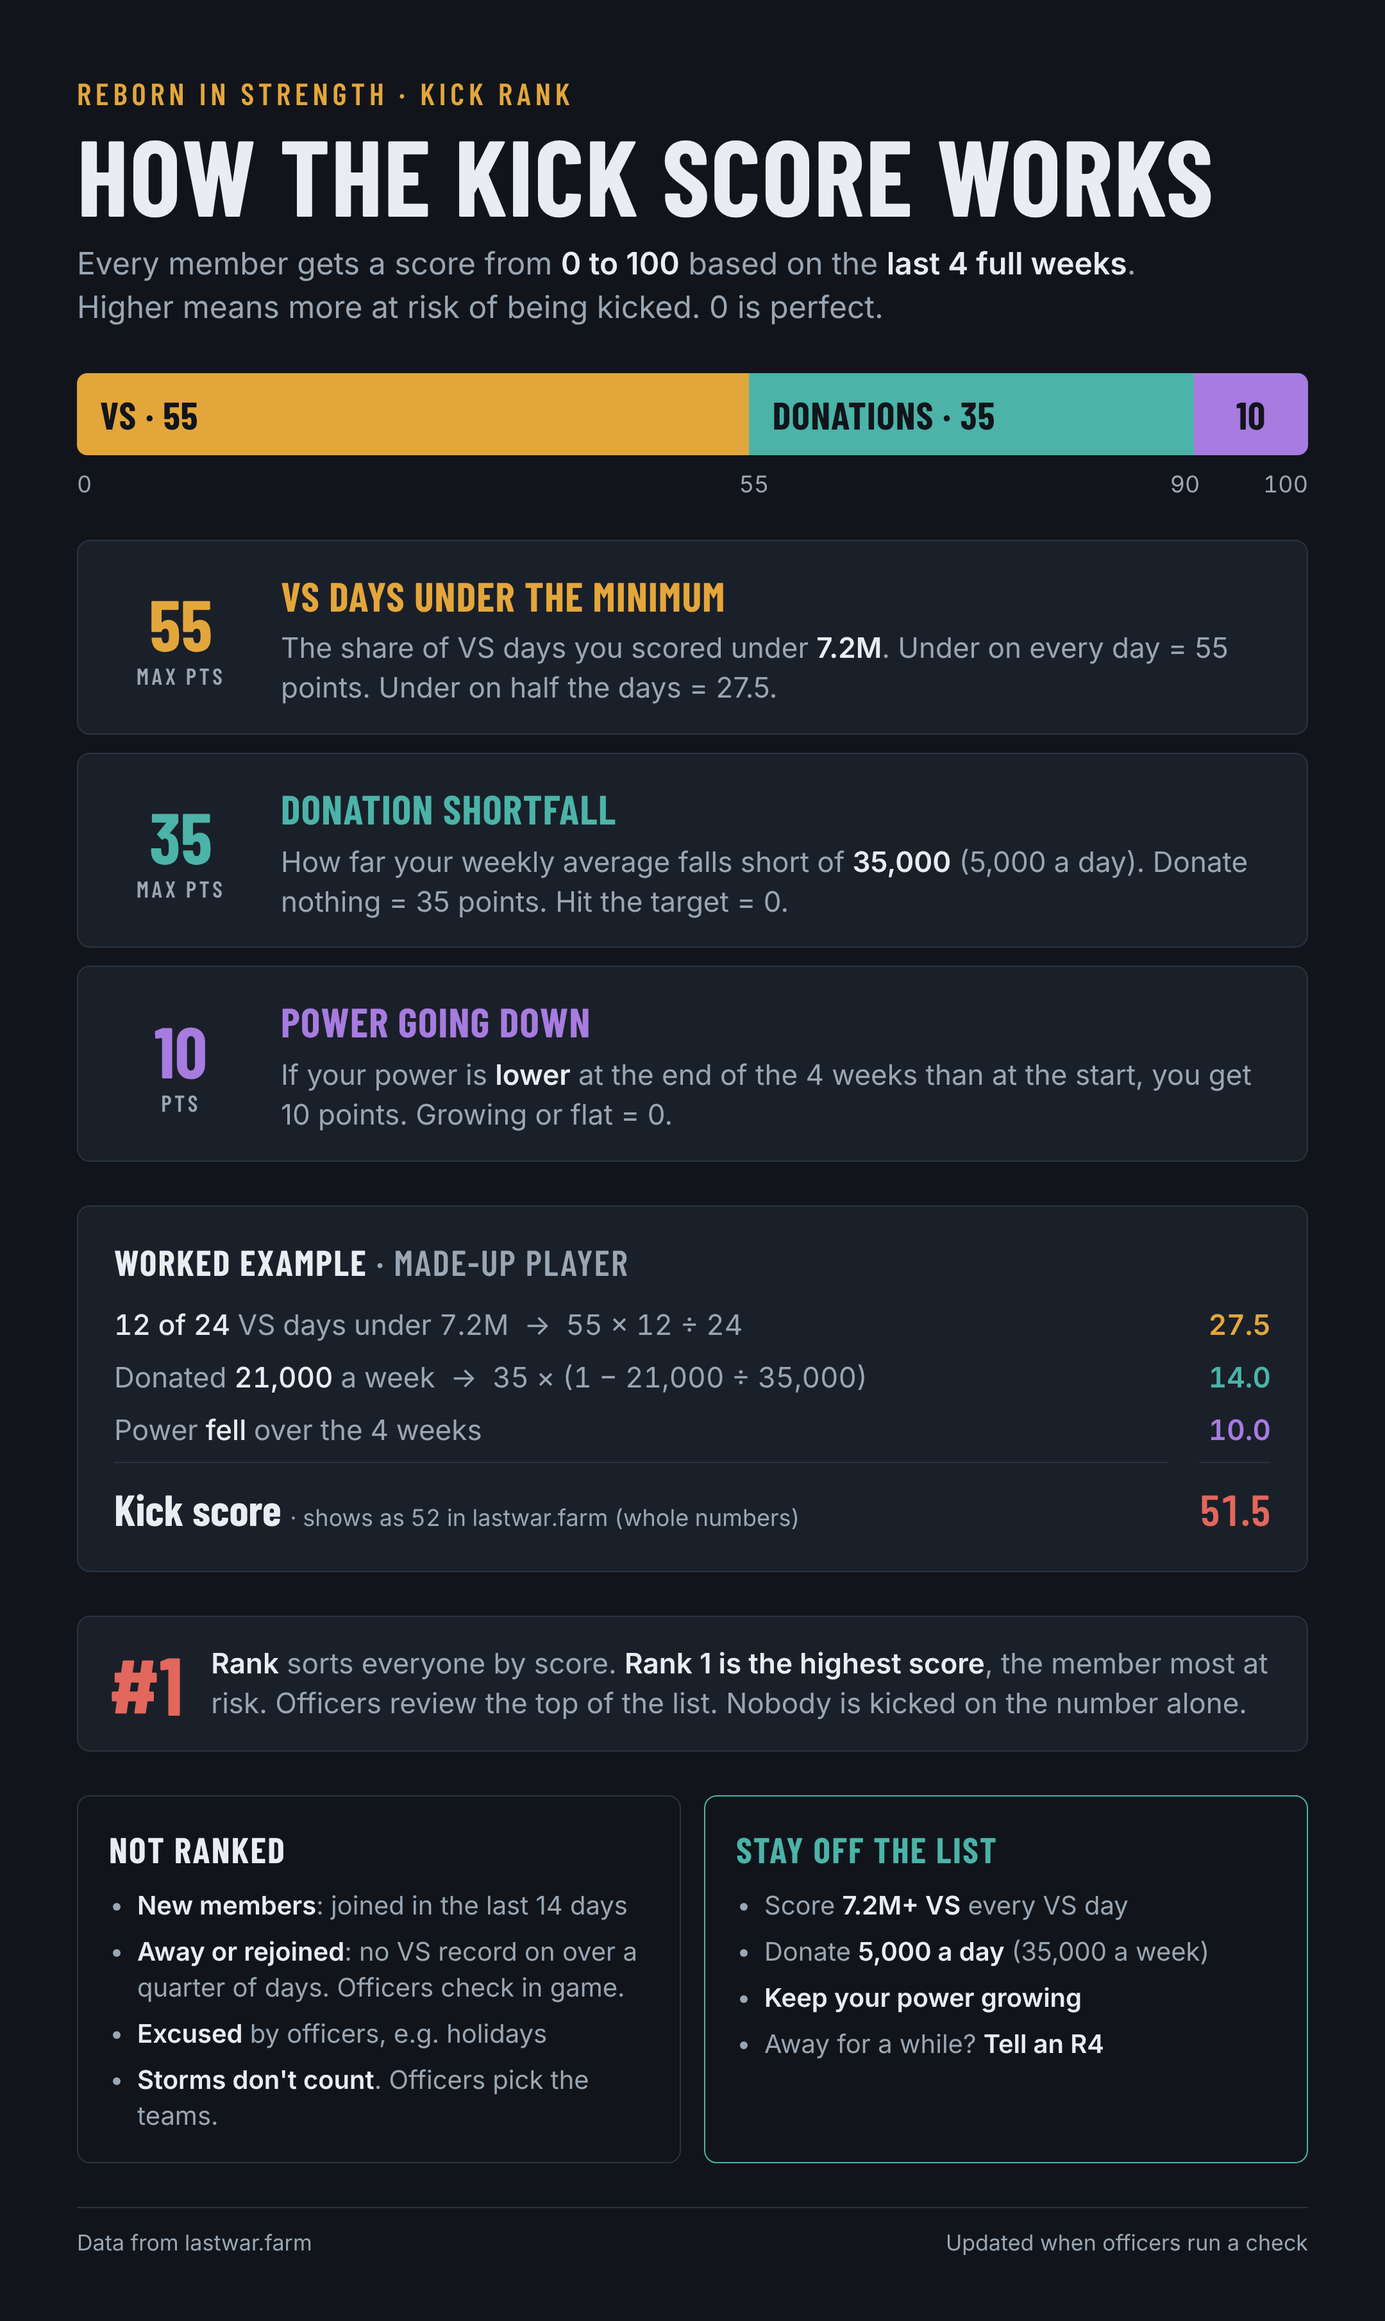
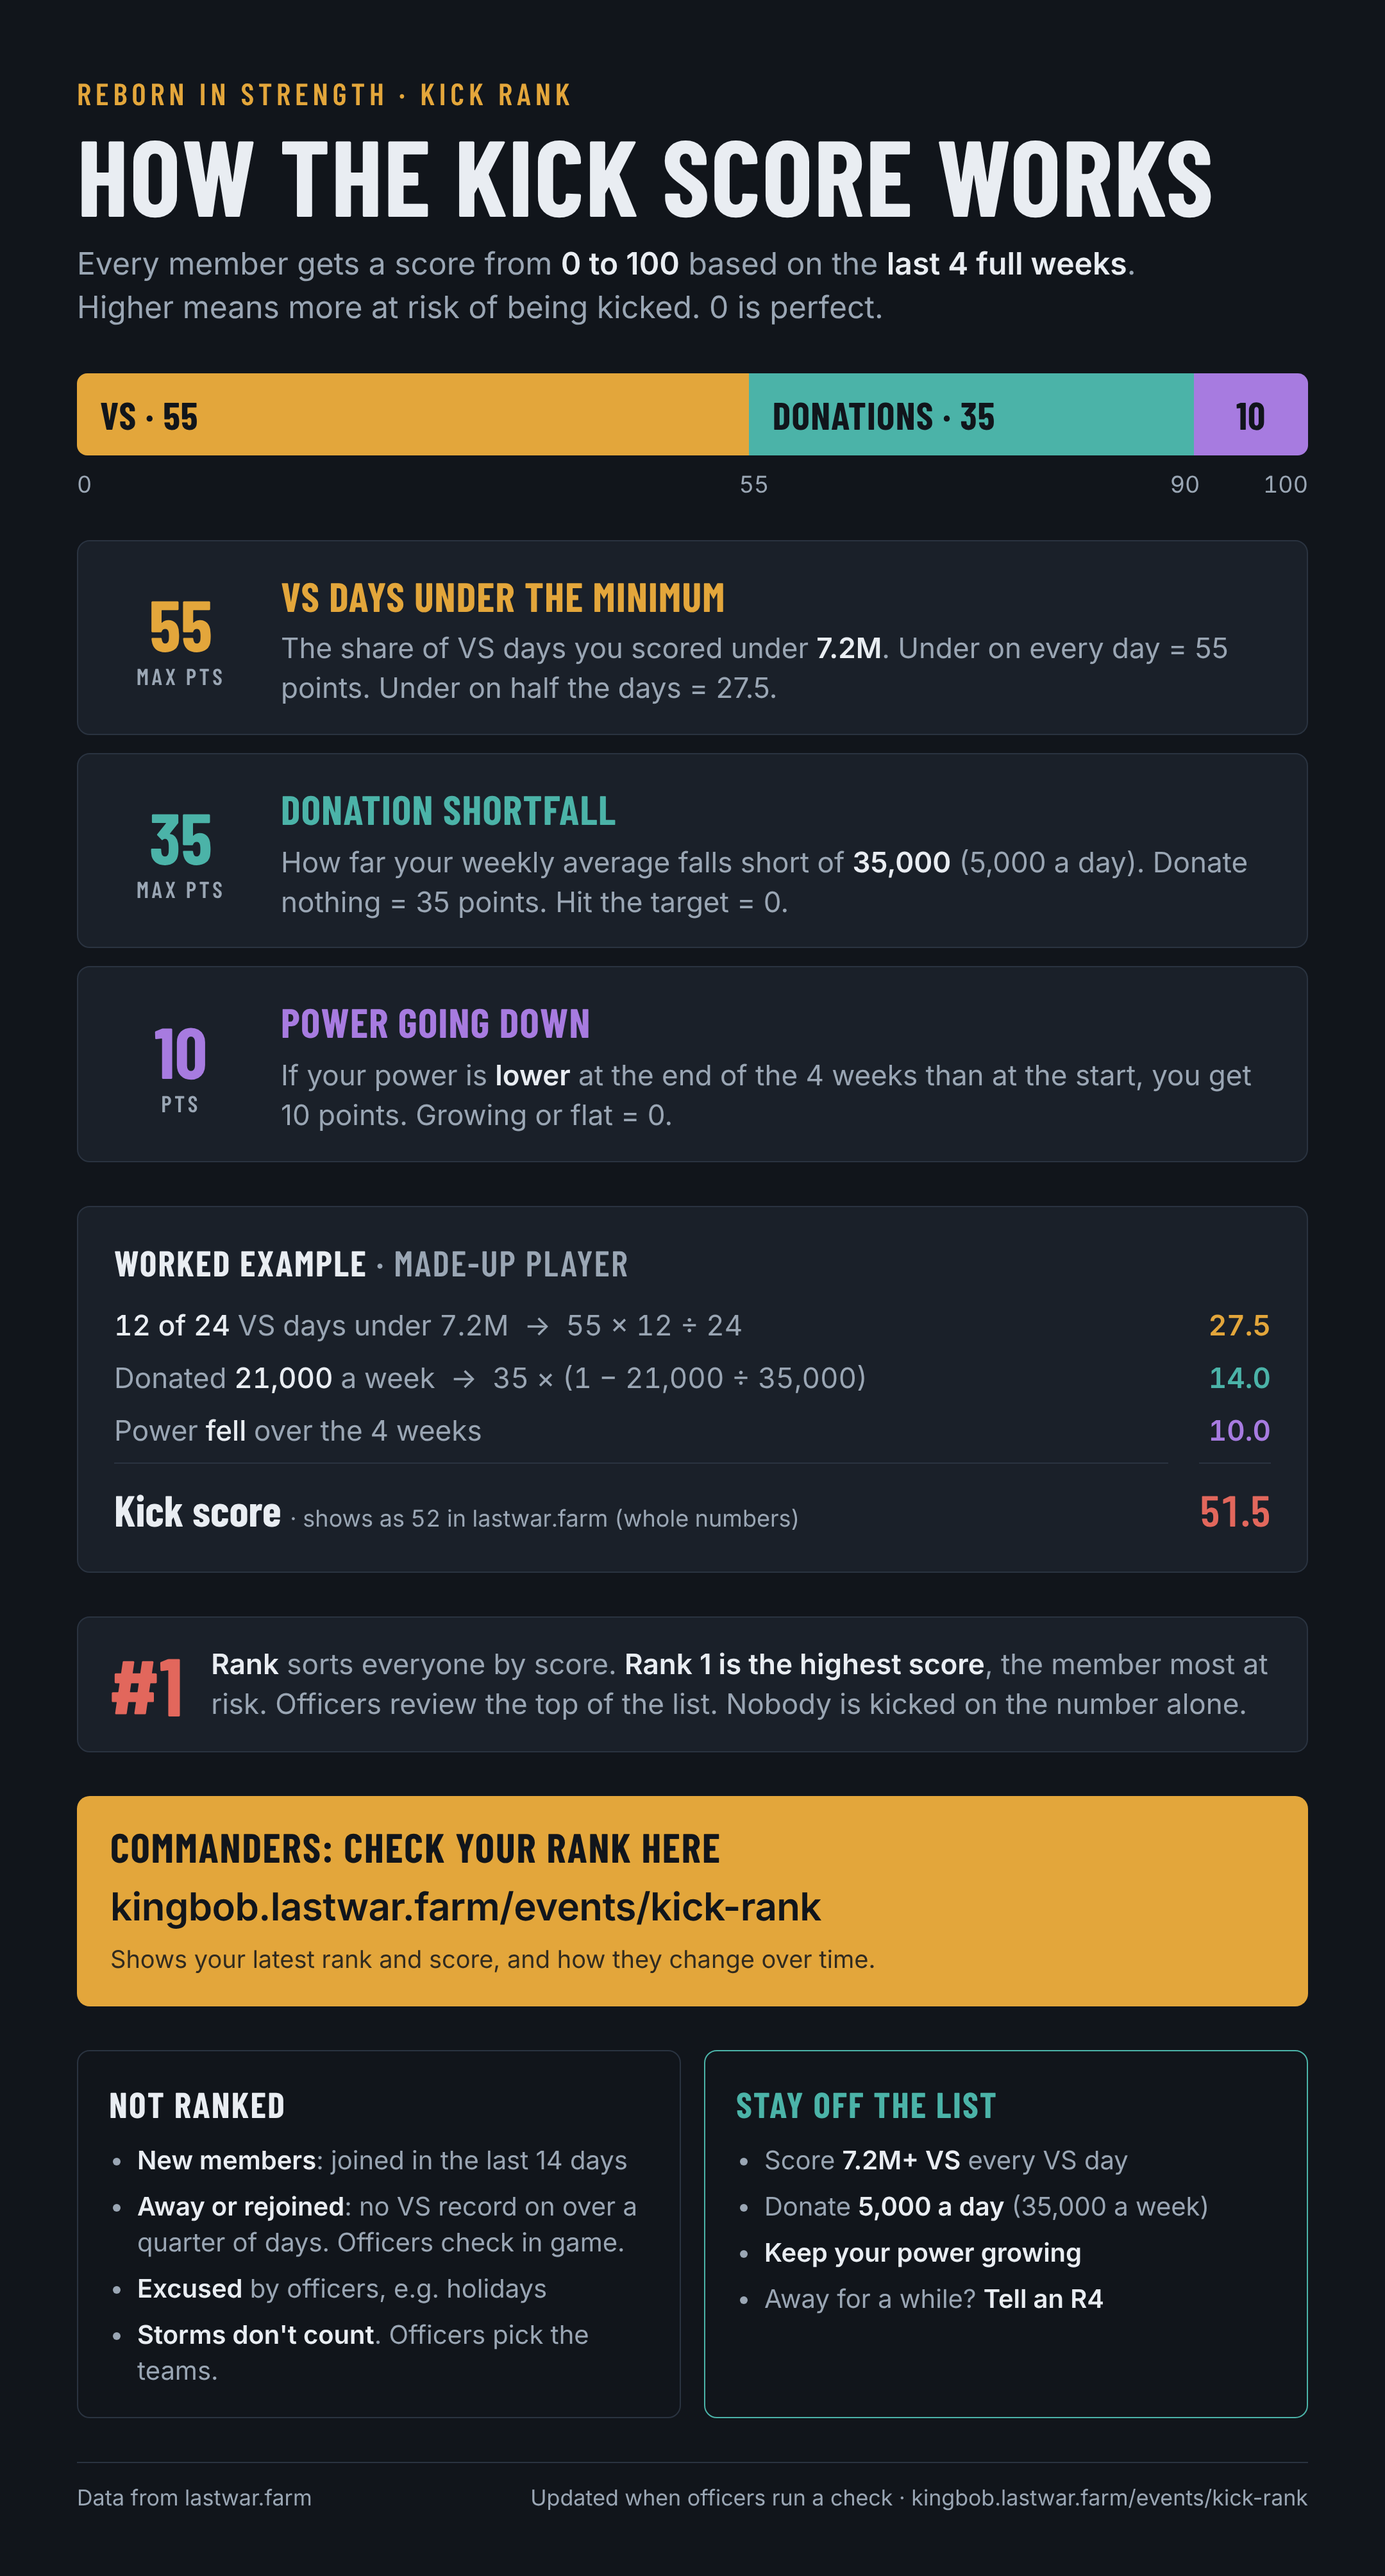
Add kick rank page link to explainer graphic
Claude-Session: https://claude.ai/code/session_0123hNeSeBt7CaNoqjuVbQGB

diff --git a/reports/graphics/kick_rank_explainer.html b/reports/graphics/kick_rank_explainer.html
@@ -73,6 +73,10 @@
   .rank .big { font-family: var(--head); font-weight: 700; font-size: 64px; color: var(--bad); line-height: 1; }
   .rank p { margin: 0; color: var(--muted); }
   .rank p b { color: var(--fg); font-weight: 600; }
+  .check { display: flex; flex-direction: column; gap: 8px; padding: 22px 26px; border-radius: 10px; background: var(--vs); color: #11151b; }
+  .check .t { font-family: var(--head); font-weight: 700; font-size: 32px; text-transform: uppercase; letter-spacing: 0.03em; line-height: 1.1; }
+  .check .url { font-family: var(--body); font-weight: 600; font-size: 30px; letter-spacing: -0.01em; word-break: break-all; }
+  .check .s { font-size: 19px; opacity: 0.85; }
   .foot { color: var(--muted); font-size: 17px; display: flex; justify-content: space-between; border-top: 1px solid var(--line); padding-top: 16px; }
 </style>
 </head>
@@ -123,6 +127,12 @@
     <p><b>Rank</b> sorts everyone by score. <b>Rank 1 is the highest score</b>, the member most at risk. Officers review the top of the list. Nobody is kicked on the number alone.</p>
   </section>
 
+  <section class="check" aria-label="Check your rank">
+    <div class="t">Commanders: check your rank here</div>
+    <div class="url">kingbob.lastwar.farm/events/kick-rank</div>
+    <div class="s">Shows your latest rank and score, and how they change over time.</div>
+  </section>
+
   <section class="two">
     <div class="box">
       <h3>Not ranked</h3>
@@ -144,7 +154,7 @@
     </div>
   </section>
 
-  <div class="foot"><span>Data from lastwar.farm</span><span>Updated when officers run a check</span></div>
+  <div class="foot"><span>Data from lastwar.farm</span><span>Updated when officers run a check · kingbob.lastwar.farm/events/kick-rank</span></div>
 </div>
 </body>
 </html>
